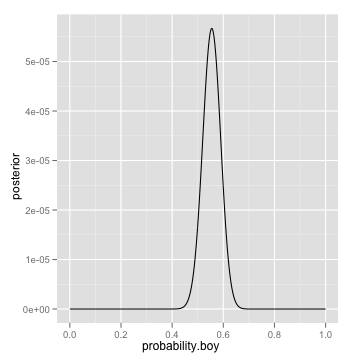
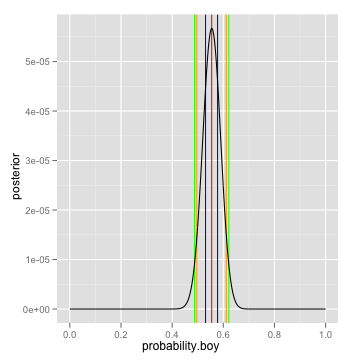
most of prob 1 done

Changed region(s): [[0.5806, 0.0306, 0.6417, 0.9167], [0.5194, 0.0306, 0.55, 0.8861]]

diff --git a/hw1ashander_knit_.md b/hw1ashander_knit_.md
@@ -18,7 +18,7 @@ All families in this country have a maximum of two children.
 data(homeworkch2) #
 end.rcode-->
 
-## Problem 1 a
+## 1 a
 
   Data are generated by binomial trials with probability of obtaining a boy `p.b`, 
 
@@ -27,19 +27,46 @@ end.rcode-->
  prior = rep(1/1000, 1000)
  likelihood =  dbinom(sum(birth1)+sum(birth2), size=length(c(birth1,birth2)), prob=p.b) # likelihood of data given 1000 models (binomial success parameter)
  naive.posterior = prior * likelihood
- dat = data.frame(prior=prior, likelihood=likelihood, posterior=naive.posterior, probability.boy=p.b)
  pb.max =  p.b[-log(likelihood) == min(-log(likelihood))]
 end.rcode-->
 
-  The model `p.b = 1` maximizes the posterior probability
+  The model `p.b = 1` maximizes the posterior probability at the value
+<!--begin.rcode prob1a, message=FALSE, echo=FALSE
+print(pb.max)
+end.rcode-->
+
+
+## 1 b
+
+<!--begin.rcode prob1b, message=FALSE
+p.b.sample = sample(p.b, size=1e4, replace=TRUE, prob=naive.posterior)
+p.b.sample = p.b.sample[order(p.b.sample)]
+post.50 = c(p.b.sample[2500], p.b.sample[7500])
+post.90 = c(p.b.sample[500], p.b.sample[9500])
+post.95 = c(p.b.sample[250], p.b.sample[9750])
+end.rcode-->
+
+Posterior density intervals for probabilty of drawing a boy:
+  
+<!--begin.rcode prob1b, message=FALSE, echo=FALSE
+cat( " 50 % interval: ", post.50, "\n")
+cat( " 90 % interval: ", post.90, "\n")
+cat( " 95 % interval: ", post.95, "\n")
+end.rcode-->
 
 <!--begin.rcode prob1a_fig, message=FALSE, fig=TRUE
- print(pb.max)
- qplot(probability.boy, posterior, data=dat, geom='line')
+dat = data.frame(prior=prior, likelihood=likelihood, posterior=naive.posterior, probability.boy=p.b)
+g = ggplot(dat)+geom_vline(xintercept=pb.max,color='red')
+g = g + geom_vline(xintercept=post.50,color='blue')
+g = g + geom_vline(xintercept=post.90,color='orange')
+g = g + geom_vline(xintercept=post.95,color='green')
+g = g+geom_line(aes(probability.boy, posterior))    
+g
 end.rcode-->
+
+## 1c
+
   
-
-
 # Colophon 
 
 Written using the excellent [knitr](http://yihui.github.com/knitr/).

diff --git a/hw1ashander.md b/hw1ashander.md
@@ -17,7 +17,7 @@ data(homeworkch2)  #
 
 
 
-## Problem 1 a
+## 1 a
 
   Data are generated by binomial trials with probability of obtaining a boy `p.b`, 
 
@@ -27,30 +27,63 @@ prior = rep(1/1000, 1000)
 likelihood = dbinom(sum(birth1) + sum(birth2), 
     size = length(c(birth1, birth2)), prob = p.b)  # likelihood of data given 1000 models (binomial success parameter)
 naive.posterior = prior * likelihood
-dat = data.frame(prior = prior, likelihood = likelihood, 
-    posterior = naive.posterior, probability.boy = p.b)
 pb.max = p.b[-log(likelihood) == min(-log(likelihood))]
 ```
 
 
 
-  The model `p.b = 1` maximizes the posterior probability
-
-```r
-print(pb.max)
-```
+  The model `p.b = 1` maximizes the posterior probability at the value
 ```
 ## [1] 0.5546
 ```
+
+
+
+
+## 1 b
+
 ```r
-qplot(probability.boy, posterior, data = dat, 
-    geom = "line")
+p.b.sample = sample(p.b, size = 10000, replace = TRUE, 
+    prob = naive.posterior)
+p.b.sample = p.b.sample[order(p.b.sample)]
+post.50 = c(p.b.sample[2500], p.b.sample[7500])
+post.90 = c(p.b.sample[500], p.b.sample[9500])
+post.95 = c(p.b.sample[250], p.b.sample[9750])
+```
+
+
+
+Posterior density intervals for probabilty of drawing a boy:
+  
+```
+##  50 % interval:  0.5305 0.5776 
+```
+```
+##  90 % interval:  0.4965 0.6116 
+```
+```
+##  95 % interval:  0.4875 0.6216 
+```
+
+
+
+```r
+dat = data.frame(prior = prior, likelihood = likelihood, 
+    posterior = naive.posterior, probability.boy = p.b)
+g = ggplot(dat) + geom_vline(xintercept = pb.max, 
+    color = "red")
+g = g + geom_vline(xintercept = post.50, color = "blue")
+g = g + geom_vline(xintercept = post.90, color = "orange")
+g = g + geom_vline(xintercept = post.95, color = "green")
+g = g + geom_line(aes(probability.boy, posterior))
+g
 ```
 ![plot of chunk prob1a_fig](https://github.com/ashander/stat-rethink/raw/master/prob1a_fig.png)
 
+
+## 1c
+
   
-
-
 # Colophon 
 
 Written using the excellent [knitr](http://yihui.github.com/knitr/).
